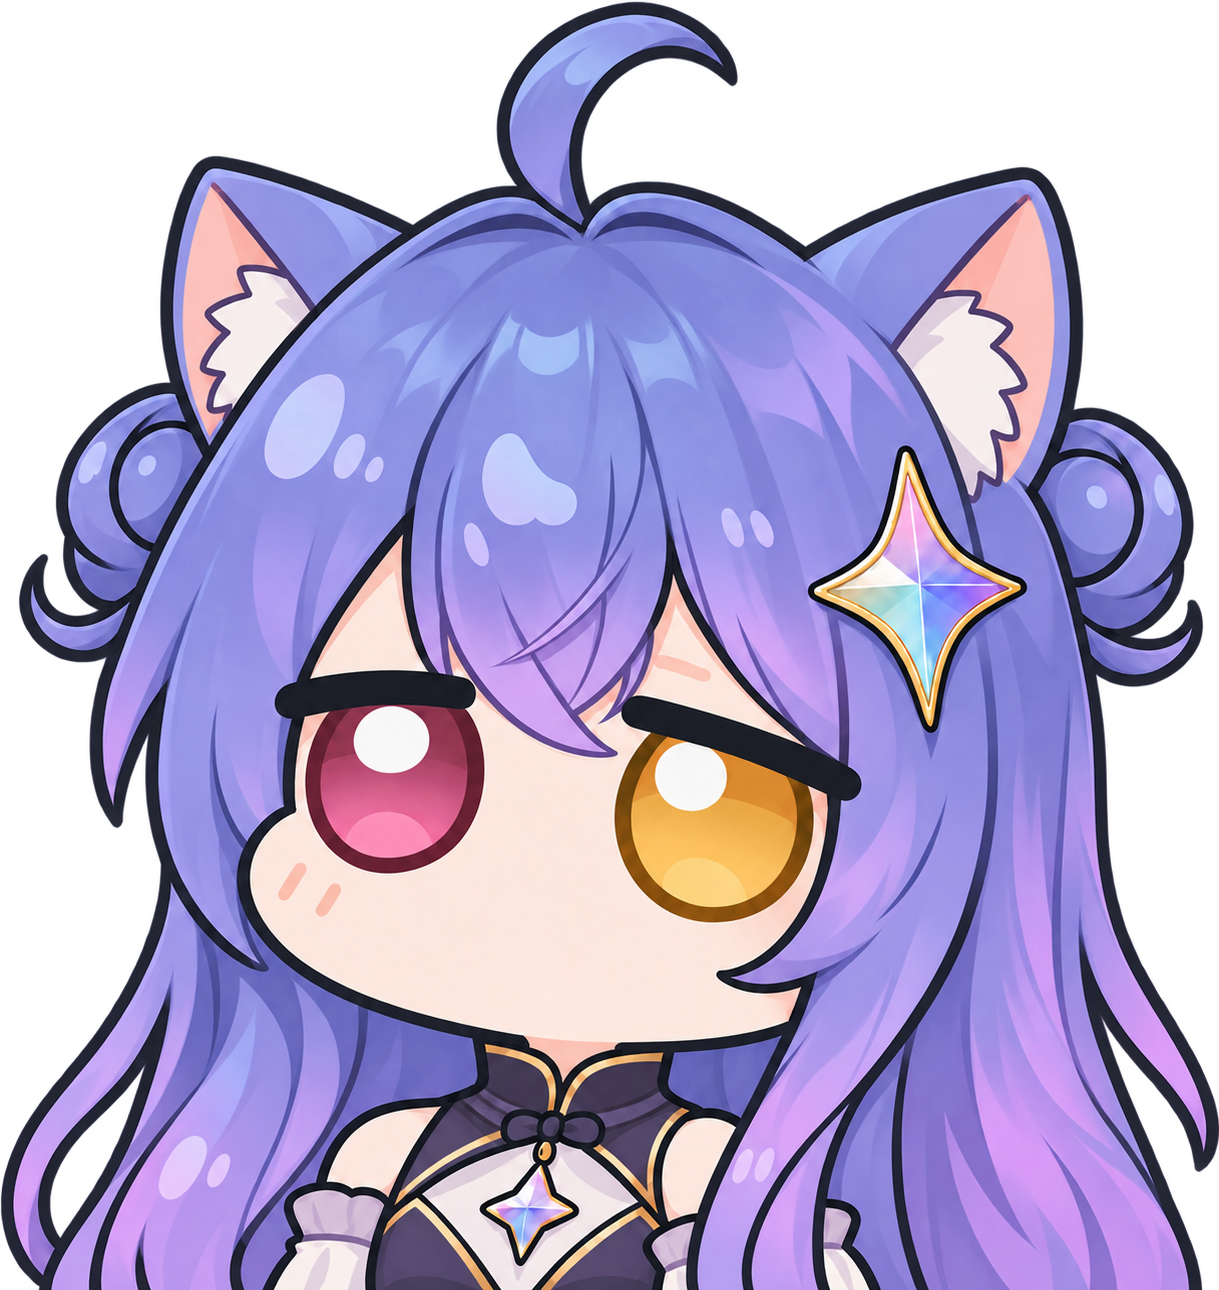
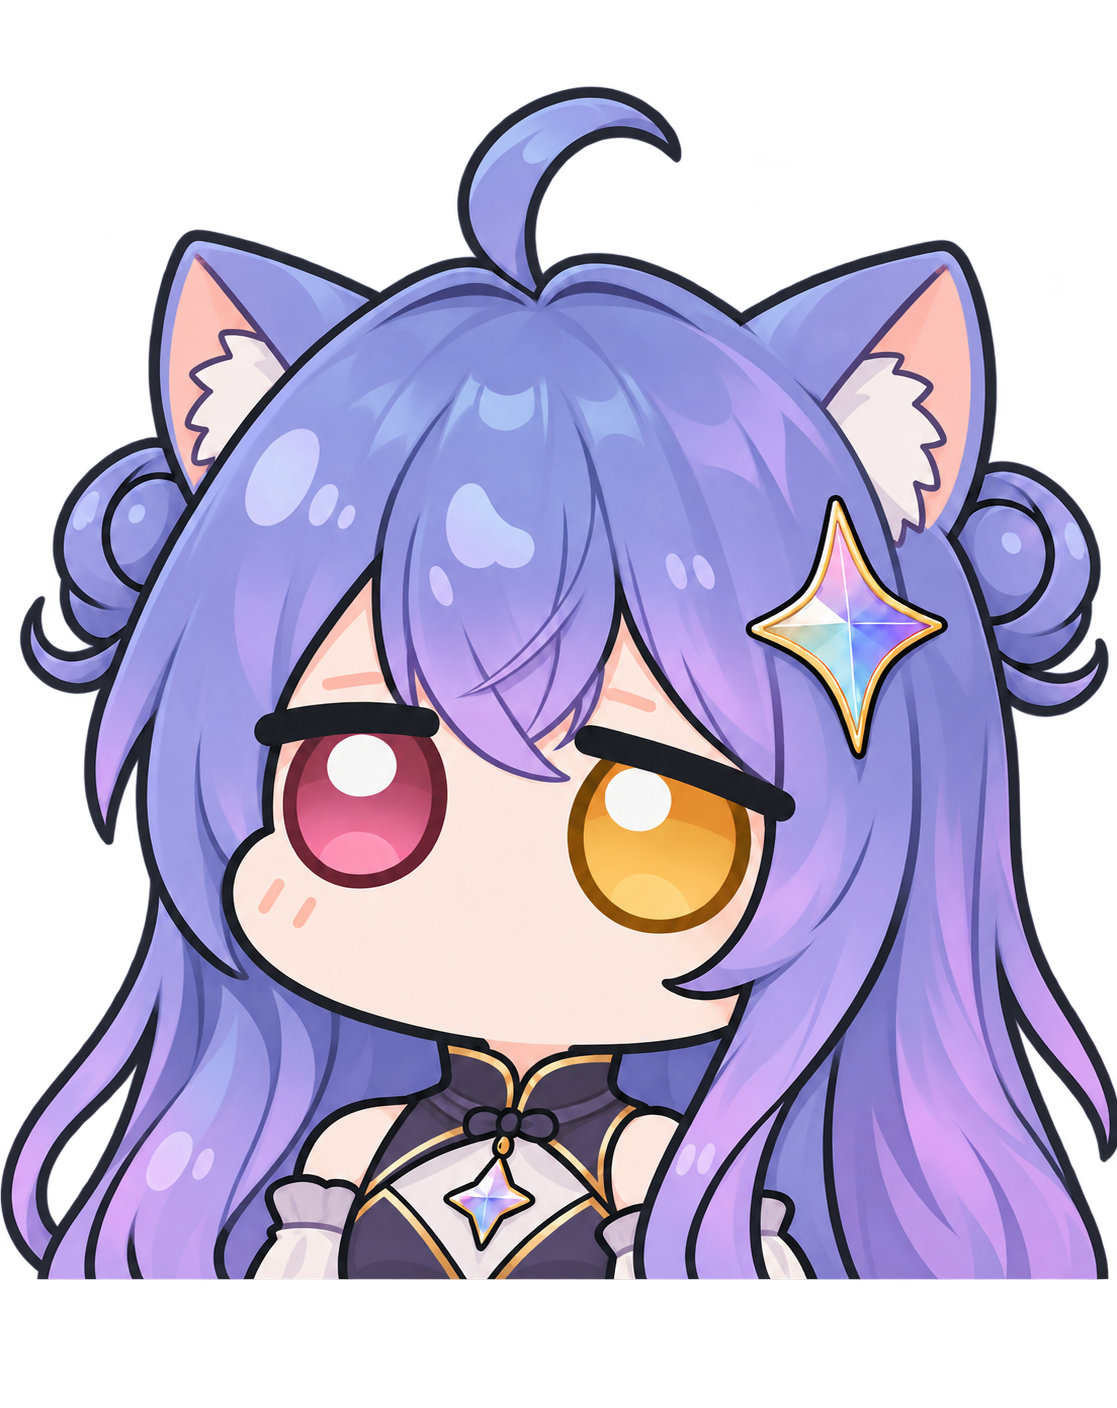
Use the maintainer's final portrait and align the music glasses

diff --git a/runtime/music-visual.cs b/runtime/music-visual.cs
@@ -389,19 +389,19 @@ public sealed class GptMusicVisual : IDisposable {
             var imageBrush=new ImageBrush(girl.Source){Stretch=Stretch.Uniform,ViewportUnits=BrushMappingMode.Absolute,Viewport=imageRect};
             dc.PushOpacity(.27);dc.PushOpacityMask(imageBrush);dc.DrawRectangle(flow,null,imageRect);dc.Pop();dc.Pop();
             if(glasses){
-                var face=new RadialGradientBrush();face.Center=face.GradientOrigin=new Point((alpha.Left+alpha.Width*554/1219)/girl.Width,(alpha.Top+alpha.Height*808/1290)/girl.Height);
+                var face=new RadialGradientBrush();face.Center=face.GradientOrigin=new Point((alpha.Left+alpha.Width*511/1117)/girl.Width,(alpha.Top+alpha.Height*742/1194)/girl.Height);
                 face.RadiusX=alpha.Width*.215/girl.Width;face.RadiusY=alpha.Height*.151/girl.Height;
                 face.GradientStops.Add(new GradientStop(Color.FromArgb(245,255,255,255),0));face.GradientStops.Add(new GradientStop(Color.FromArgb(220,255,255,255),.65));face.GradientStops.Add(new GradientStop(Colors.Transparent,1));
                 dc.PushOpacityMask(face);dc.DrawImage(girl.Source,imageRect);dc.Pop();
             }
         }
         if(glasses) {
-            // Eye centres on the 1219 x 1290 Gemini portrait: (393,788) and (714,828).
+            // Eye centres on the 1117 x 1408 Gemini portrait: (363,810) and (659,846).
             // The lens centres sit slightly below the bridge origin in the frame geometry.
-            double pixel=alpha.Width/1219;
-            dc.PushTransform(new TranslateTransform(175+(556-609.5)*pixel,350-(1290-787)*pixel));
-            dc.PushTransform(new RotateTransform(7.1));
-            dc.PushTransform(new ScaleTransform(4.76*pixel,6.4*pixel));
+            double pixel=alpha.Width/1117;
+            dc.PushTransform(new TranslateTransform(175+(514-558.5)*pixel,350-(1280-809)*pixel));
+            dc.PushTransform(new RotateTransform(6.9));
+            dc.PushTransform(new ScaleTransform(4.38*pixel,5.9*pixel));
             dc.DrawGeometry(null,Arm,Arms);dc.DrawGeometry(Lens,LensRim,LeftLens);dc.DrawGeometry(Lens,LensRim,RightLens);
             dc.PushOpacity(.30);var shine=new Pen(Brush("#c4cfdf"),1.9);dc.DrawLine(shine,new Point(-47,-6),new Point(-34,-7));dc.DrawLine(shine,new Point(20,-5),new Point(29,-6));dc.Pop();dc.Pop();dc.Pop();dc.Pop();
         }
